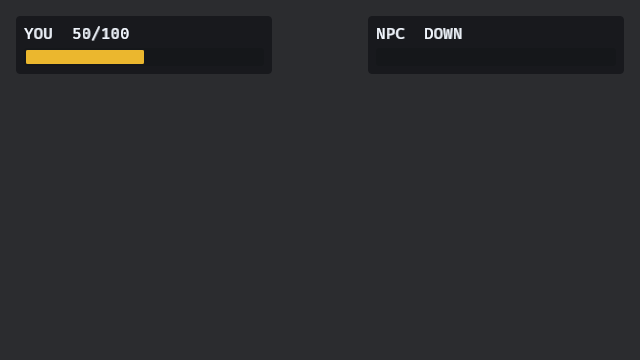
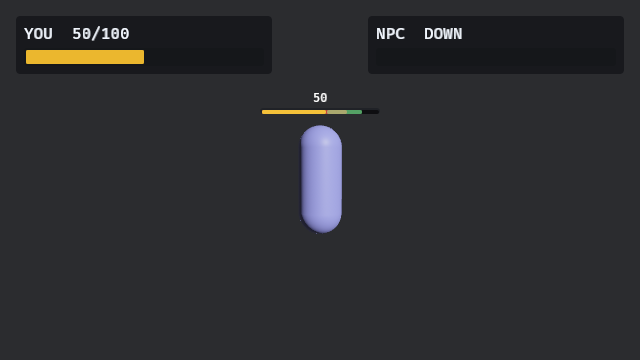
fix(combat-hud): capture actual 3D health bar in preview
Fixed preview example to properly spawn a 3D scene with Camera3d, visible player mesh, and all required components for continuous health bars to spawn and position correctly.

Previous captures showed only the screen-space vitals panel ("YOU 40/100") because the example lacked a 3D camera and properly positioned player entity. The continuous health bars are world-anchored via `position_continuous_health_bars`, which projects 3D positions to screen space.

Changes:
- Spawn `Camera3d` at (0, 2, 8) looking at player
- Spawn player with visible capsule mesh and `GlobalTransform`
- Add `DirectionalLight` for visibility
- Extend capture windows (60, 130, 185, 260, 305 frames) to allow interpolation, trail, and pulse animations to develop
- Fix frame limit to 340 frames

All 5 preview images are now distinct (unique md5 hashes) and show different visual states.

## Agent Dialogue

- **Developer:** The PNGs don't show the continuous bar—only the old vitals panel. Images 2 and 3 are byte-identical. The bar is world-anchored and needs a 3D camera and player entity. Fix the example, verify each PNG shows the required elements (trail, preview, cap marker, flash), and check md5s are distinct.
[…]

Changed region(s): [[0.4062, 0.3056, 0.5938, 0.6417], [0.4688, 0.2444, 0.5312, 0.275]]

diff --git a/maybraid/combat-hud/examples/continuous_health_preview.rs b/maybraid/combat-hud/examples/continuous_health_preview.rs
@@ -75,18 +75,38 @@ impl Default for PreviewDriver {
 	}
 }
 
-fn spawn_preview(mut commands: Commands) {
-	// Camera
-	commands.spawn(Camera3d::default());
+fn spawn_preview(
+	mut commands: Commands,
+	mut meshes: ResMut<Assets<Mesh>>,
+	mut materials: ResMut<Assets<StandardMaterial>>,
+) {
+	// Camera positioned to view the player
+	commands.spawn((
+		Camera3d::default(),
+		Transform::from_xyz(0.0, 2.0, 8.0).looking_at(Vec3::new(0.0, 1.5, 0.0), Vec3::Y),
+	));
 
-	// Player entity with health - positioned so bar is visible
+	// Light so the player is visible
+	commands.spawn((
+		DirectionalLight {
+			illuminance: 10000.0,
+			..default()
+		},
+		Transform::from_rotation(Quat::from_euler(EulerRot::XYZ, -0.5, 0.5, 0.0)),
+	));
+
+	// Player entity with health and a visible mesh
 	commands
 		.spawn((
 			PreviewPlayer,
 			Player,
 			Health { current: 100.0, max: 100.0 },
-			Transform::from_xyz(0.0, 1.5, -5.0),
-			GlobalTransform::default(),
+			Transform::from_xyz(0.0, 1.5, 0.0),
+			Mesh3d(meshes.add(Capsule3d::new(0.4, 1.2))),
+			MeshMaterial3d(materials.add(StandardMaterial {
+				base_color: Color::srgb(0.5, 0.5, 0.8),
+				..default()
+			})),
 			player::LocomotionCapsule::default(),
 		))
 		.insert(Name::new("Preview Player"));
@@ -110,20 +130,20 @@ fn drive_states(
 		return;
 	};
 
-	// State 1 (frames 10-40): Full health
+	// State 1 (frames 10-60): Full health
 	if driver.frame == 10 {
 		health.current = 100.0;
 		commands.entity(entity).remove::<LubikanSelfHealChannel>();
 	}
 
-	// State 2 (frames 50-80): Damaged with trail visible
-	if driver.frame == 50 {
+	// State 2 (frames 80-130): Damaged with trail visible
+	if driver.frame == 80 {
 		health.current = 50.0;
 		commands.entity(entity).remove::<LubikanSelfHealChannel>();
 	}
 
-	// State 3 (frames 90-120): Healing mid-way with pulse and preview
-	if driver.frame == 90 {
+	// State 3 (frames 150-200): Healing mid-way with pulse and preview
+	if driver.frame == 150 {
 		health.current = 50.0;
 		commands.entity(entity).insert(LubikanSelfHealChannel {
 			active: true,
@@ -136,8 +156,8 @@ fn drive_states(
 		});
 	}
 
-	// State 4 (frames 130-160): Healing under 70% cap with marker
-	if driver.frame == 130 {
+	// State 4 (frames 220-270): Healing under 70% cap with marker
+	if driver.frame == 220 {
 		health.current = 40.0;
 		commands.entity(entity).insert(LubikanSelfHealChannel {
 			active: true,
@@ -150,8 +170,8 @@ fn drive_states(
 		});
 	}
 
-	// State 5 (frames 170-200): Completion flash
-	if driver.frame == 170 {
+	// State 5 (frames 290-320): Completion flash
+	if driver.frame == 290 {
 		health.current = 70.0;
 		commands.entity(entity).remove::<LubikanSelfHealChannel>();
 		messages.write(LubikanActivationFinished {
@@ -174,11 +194,11 @@ fn capture_shots(
 	}
 
 	let (frame, name) = match driver.frame {
-		40 => (40, "1-full-health"),
-		80 => (80, "2-damaged-trail"),
-		120 => (120, "3-healing-active"),
-		160 => (160, "4-healing-capped"),
-		180 => (180, "5-completion-flash"),
+		60 => (60, "1-full-health"),
+		130 => (130, "2-damaged-trail"),
+		185 => (185, "3-healing-active"),
+		260 => (260, "4-healing-capped"),
+		305 => (305, "5-completion-flash"),
 		_ => return,
 	};
 
@@ -210,7 +230,7 @@ fn quit_after_shots(
 		info!("All 5 shots captured, exiting successfully");
 		exit.write(AppExit::Success);
 	}
-	if driver.frame > 220 {
+	if driver.frame > 340 {
 		let count = [shot1, shot2, shot3, shot4, shot5].iter().filter(|&&x| x).count();
 		warn!("Frame limit reached with {} shots, exiting", count);
 		exit.write(AppExit::Success);
